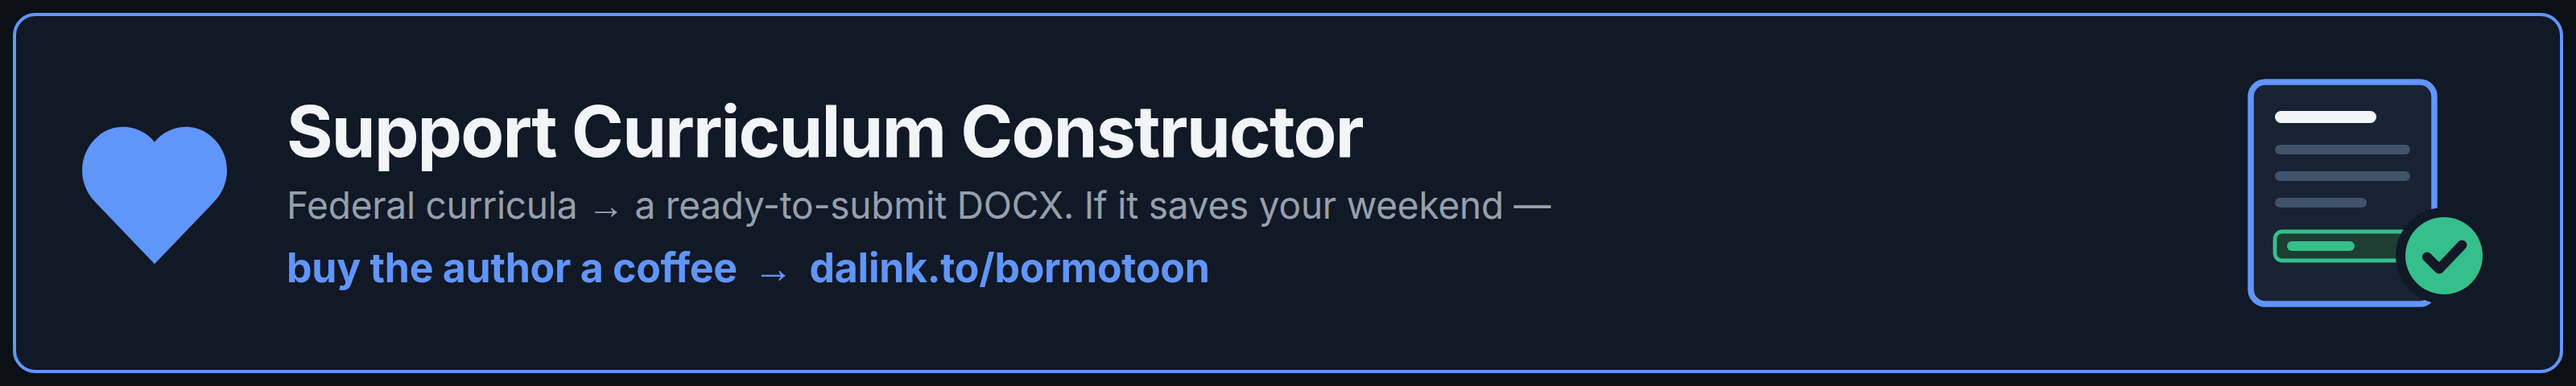
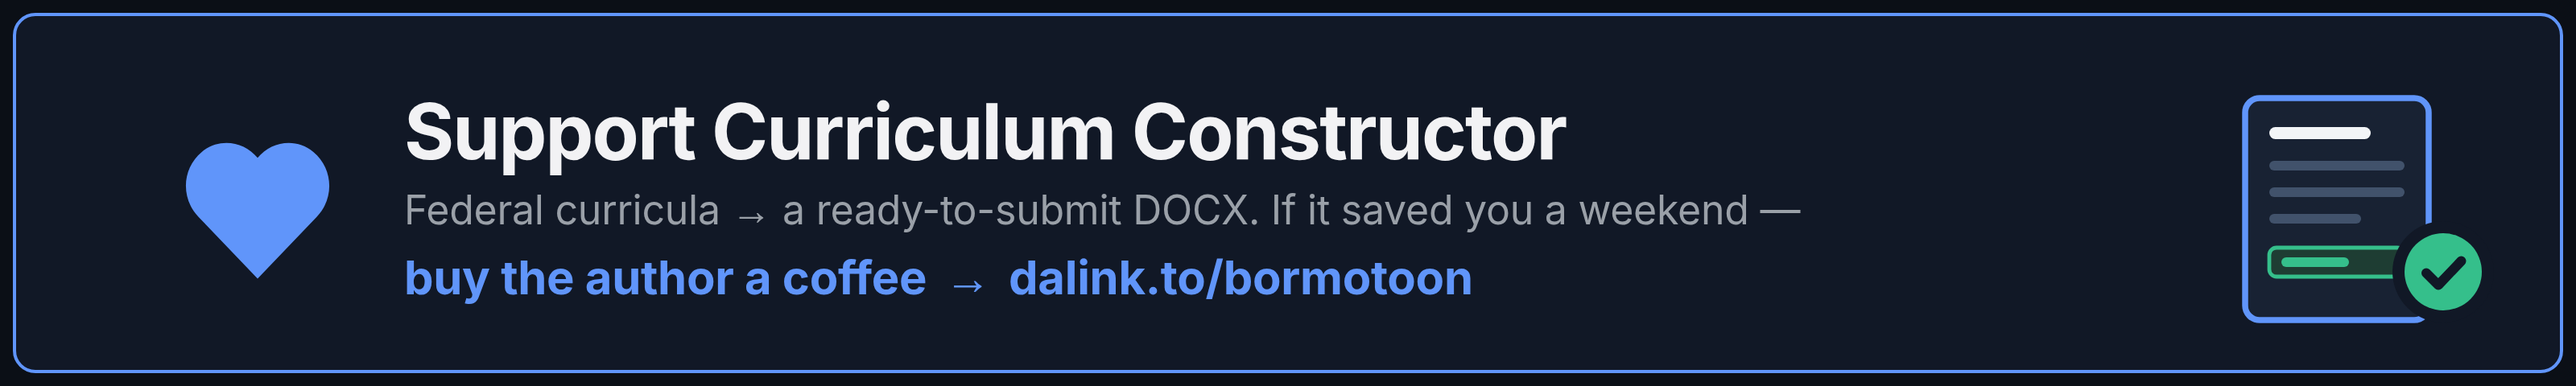
Развести баннер поддержки на русскую и английскую версии
Раньше в обоих README стояла одна английская картинка. Теперь у каждого
языка своя: README.md ведёт на donate_banner_ru.png, README.en.md — на
donate_banner.png.

Обе собраны из одного макета и одной палитры, отличается только набор.
Английская перерисована тем же Inter, что и русская, — иначе внутри пары
разъезжался шрифт.

Changed region(s): [[0.0312, 0.25, 0.6875, 0.7812], [0.8438, 0.1875, 0.9688, 0.8438]]

diff --git a/README.md b/README.md
@@ -360,7 +360,7 @@ tools/
 Конструктор бесплатен и работает прямо в браузере, без регистрации и подписок.
 Если он сэкономил вам выходные — поддержите разработку:
 
-[![Поддержать конструктор рабочих программ](docs/images/donate_banner.png)](https://dalink.to/bormotoon)
+[![Поддержать конструктор рабочих программ](docs/images/donate_banner_ru.png)](https://dalink.to/bormotoon)
 
 ## Лицензия
 
